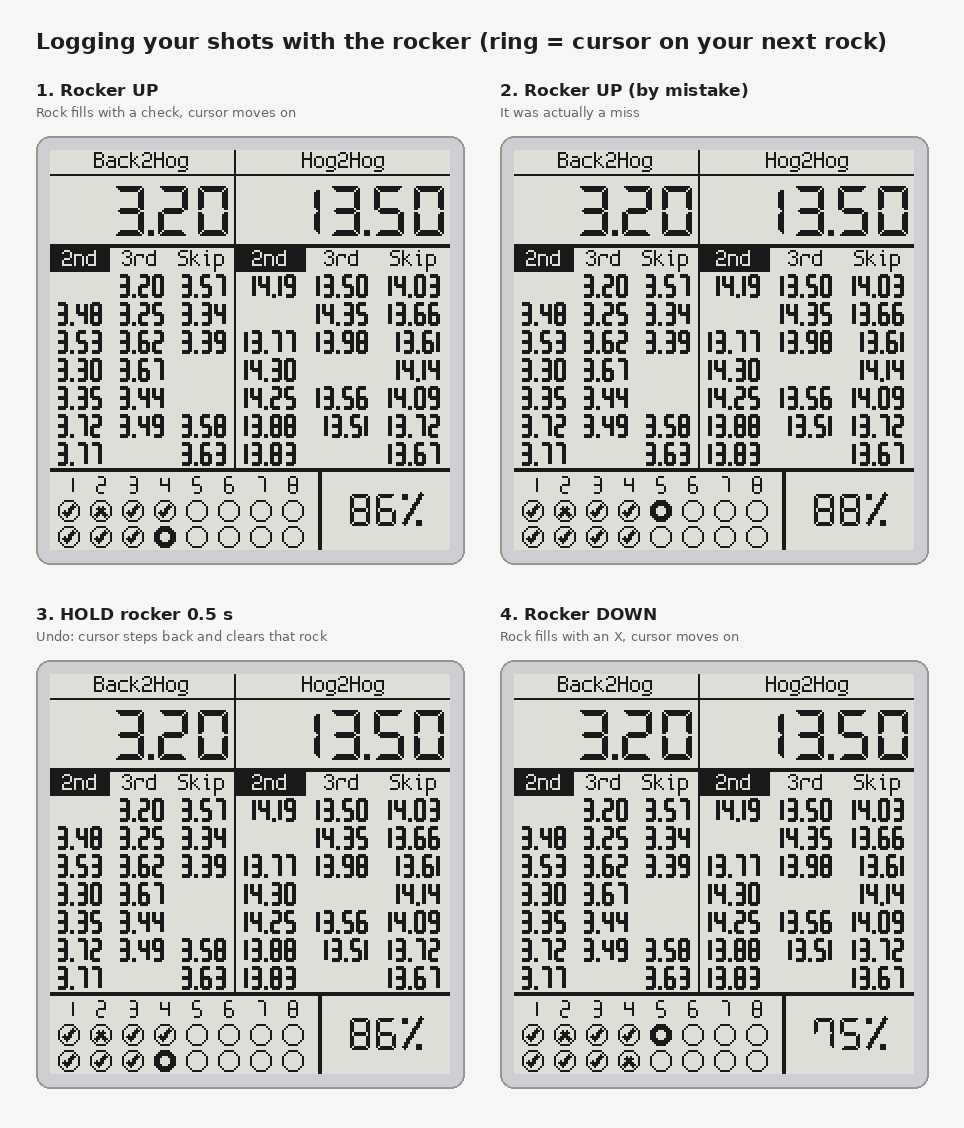
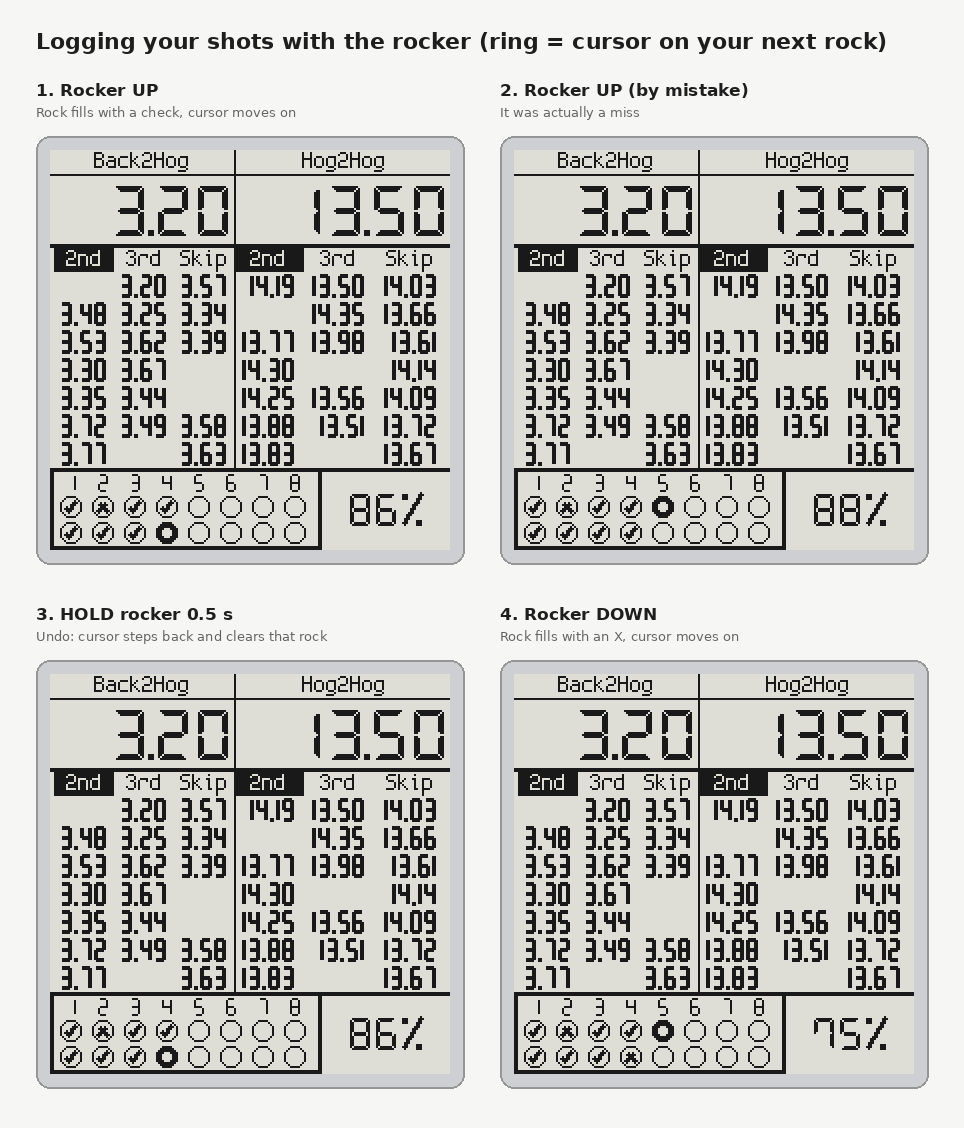
League: rocker focus on your rocks or the players
Hold rocker up 0.5 s to focus the players (a bold border round the
times): up/down then move the player cursor, for a rock nobody timed.
Hold rocker down 0.5 s to focus your rocks again (the border moves to
them): up/down log made/missed. Short up/down presses act on release so
a hold can be told from a press. Every switch-on starts on your rocks.
Compared pixel for pixel with the mockups (43 screens).

Claude-Session: https://claude.ai/code/session_01YA9zoncxe9XeMCwR12hQbC

diff --git a/firmware/src/app.cpp b/firmware/src/app.cpp
@@ -24,6 +24,7 @@ constexpr int64_t kUndoHoldUs = kSec / 2;   // 0.5 s
 constexpr int64_t kPowerHoldUs = 3 * kSec;
 constexpr int64_t kDoublePressUs = 400000;     // two rocker presses within 0.4 s: a double press
 constexpr uint8_t kRocksPerPlayer = 2;         // each player throws two rocks an end
+constexpr int64_t kFocusHoldUs = kSec / 2;     // league: hold rocker up/down this long to move the focus
 constexpr int64_t kAwakeAfterPressUs = 2 * kSec;    // stay awake this long after a rocker press
 constexpr int64_t kAwakeAfterWakeUs = 40000;        // time to confirm the button that woke us
 constexpr int64_t kAuditEveryUs = 10 * 60 * kSec;   // clock audit sample interval
@@ -113,6 +114,9 @@ uint8_t coachPage = 0;          // coach: 0 timer priority, 1 rock priority
 uint8_t myPosition = 0;         // 0 lead .. 3 skip (double press of the rocker centre; kept)
 uint8_t activeCol = 0;          // the column (0-2) with the cursor
 uint8_t rocksForActive = 0;     // stones timed for that player since the cursor got there
+// League: what rocker up/down work on, the focus (bold border): your rocks (made/missed) or the
+// players (previous/next). Hold up 0.5 s for the players, hold down 0.5 s for your rocks.
+Focus focus = Focus::Rocks;
 int64_t lastRockerPress = -kSec; // coach: when the rocker was last pressed (short presses only count)
 
 TimingEngine timing;
@@ -186,6 +190,7 @@ void newGame() {
     shots.setCapacity(mode == GameMode::Coach ? ShotLog::kCoachSlots : ShotLog::kLeagueSlots);
     activeCol = 0;
     rocksForActive = 0;
+    focus = Focus::Rocks;
     // "Double click rocker to change position", for the first 5 s (not in coach: no positions)
     tipWaiting = mode != GameMode::Coach;
     tipUntil = -1;
@@ -213,6 +218,7 @@ struct Model {
     bool full = false;      // next update is a ghost-clearing full refresh
     bool tip = false;       // the switch-on position tip
     Waiting waiting = Waiting::None;  // a stone being timed: the stopwatch shows where its time will go
+    Focus focus = Focus::Rocks;       // league: what the rocker works on
     char lastGame[40] = "";
     int shotPct = -1;       // help page: last game's shot percentage
     int battery = -1;       // help page: charge at switch-off
@@ -251,7 +257,7 @@ void displayTask(void*) {
             if (m.page == 0) drawCoachTimer(next, m.stones, m.stoneCount, m.shots, m.waiting);
             else drawCoachRocks(next, m.stones, m.stoneCount, m.shots, m.waiting);
         } else {
-            drawLeague(next, m.stones, m.stoneCount, m.shots, m.me, m.activeCol, m.warning, m.tip, m.waiting);
+            drawLeague(next, m.stones, m.stoneCount, m.shots, m.me, m.activeCol, m.warning, m.tip, m.waiting, m.focus);
         }
         const int64_t t0 = esp_timer_get_time();
         if (m.full) {
@@ -283,6 +289,7 @@ void syncModel(bool full = false) {
         m.help = false;
         m.full = m.full || sFull;
         m.tip = tipWaiting || tipUntil >= 0;
+        m.focus = focus;
         m.waiting = timing.state() == TimingState::Started     ? Waiting::BackToHog
                     : timing.state() == TimingState::WaitingHH ? Waiting::HogToHog
                                                                : Waiting::None;
@@ -560,6 +567,31 @@ void onRockerPress(ButtonState& s, int64_t t) {
     lastRockerPress = t;
 }
 
+// The player cursor one column left (-1) or right (+1), round and round.
+void movePlayer(int dir) {
+    activeCol = (activeCol + (dir < 0 ? kGridColumns - 1 : 1)) % kGridColumns;
+    rocksForActive = 0;
+    sound.play(kClick);
+    Serial.printf("timing: %s next\n", kPositionNames[teammate(myPosition, activeCol)]);
+    syncModel();
+}
+
+// League: rocker up/down held 0.5 s moves the focus (up: players, down: your rocks).
+void setFocus(Focus f) {
+    focus = f;
+    sound.play(kClick);
+    Serial.printf("focus: %s\n", f == Focus::Players ? "players" : "rocks");
+    syncModel();
+}
+
+// League: a short press of rocker up/down, acted on when it's let go (a long press moves the
+// focus instead): made/missed, or previous/next player.
+void onRelease(uint8_t b) {
+    if (mode != GameMode::League || (b != board::kUp && b != board::kDown) || buttons[b].holdFired) return;
+    if (focus == Focus::Rocks) onShot(b == board::kUp);
+    else movePlayer(b == board::kUp ? -1 : 1);
+}
+
 void onPress(uint8_t b, int64_t t) {
     ButtonState& s = buttons[b];
     s.down = true;
@@ -572,14 +604,12 @@ void onPress(uint8_t b, int64_t t) {
         s.holdFired = true;
         activity(t);
         if (b == board::kPress) { onRockerPress(s, t); return; }
-        activeCol = (activeCol + (b == board::kUp ? kGridColumns - 1 : 1)) % kGridColumns;
-        rocksForActive = 0;
-        sound.play(kClick);
-        Serial.printf("competition: timing %s\n", kPositionNames[teammate(myPosition, activeCol)]);
-        syncModel();
+        movePlayer(b == board::kUp ? -1 : 1);
         return;
     }
     activity(t);
+    // League: rocker up/down act when let go, or move the focus when held (pollButtons).
+    if (mode == GameMode::League && (b == board::kUp || b == board::kDown)) return;
     switch (b) {
     case board::kTop:
     case board::kSide: onTimingPress(t); break;
@@ -611,7 +641,10 @@ void pollButtons(int64_t now) {
             if (s.down && !raw && stable) s.down = false;
         } else {
             if (stable && raw && !s.down) onPress(b, s.rawSince);
-            if (stable && !raw && s.down) s.down = false;
+            if (stable && !raw && s.down) {
+                onRelease(b);
+                s.down = false;
+            }
         }
 
         // holds
@@ -625,6 +658,12 @@ void pollButtons(int64_t now) {
                 if (!onUndo()) s.holdFired = true;
             }
             if (b == board::kSide && now - s.downSince >= kPowerHoldUs) { s.holdFired = true; showHelpAndPowerOff(); }
+            if (mode == GameMode::League && (b == board::kUp || b == board::kDown) &&
+                now - s.downSince >= kFocusHoldUs) {
+                s.holdFired = true;  // not a short press when it's let go
+                activity(now);
+                setFocus(b == board::kUp ? Focus::Players : Focus::Rocks);
+            }
         }
     }
 }

diff --git a/tools/mockups/screen.py b/tools/mockups/screen.py
@@ -301,15 +301,16 @@ def teammates(me):
     return [p for p in range(4) if p != me]
 
 
-def grid_columns(half, mid):
-    """Edges of the three columns in a half (0 = B2H, 1 = H2H)."""
-    x0, x1 = (0, mid) if half == 0 else (mid, W)
+def grid_columns(half, mid, left=0, right=W):
+    """Edges of the three columns in a half (0 = B2H, 1 = H2H), between left and right."""
+    x0, x1 = (left, mid) if half == 0 else (mid, right)
     return [x0 + (x1 - x0) * k // 3 for k in range(4)]
 
 
-def times_grid(d, f, stones, bottom, mid, me, active, rows_max=GRID_ROWS):
-    """stones: (b2h, h2h, position) newest first; active: the column (0-2) with the cursor."""
-    cols = [grid_columns(0, mid), grid_columns(1, mid)]
+def times_grid(d, f, stones, bottom, mid, me, active, rows_max=GRID_ROWS, inset=0):
+    """stones: (b2h, h2h, position) newest first; active: the column (0-2) with the cursor.
+    inset: columns kept this far from the screen's sides (room for a focus border)."""
+    cols = [grid_columns(0, mid, inset, W - inset), grid_columns(1, mid, inset, W - inset)]
     players = teammates(me)
     for half in range(2):
         for k in range(3):
@@ -360,7 +361,7 @@ def newest_row(d, f, stones, waiting, mid, font, y0, y1, margin, r, cy):
 
 
 def times_wide(d, f, stones, bottom, label_right=W, grid=False, mid=WIDE_MID, me=0, active=0,
-               rows_max=GRID_ROWS, waiting=None):
+               rows_max=GRID_ROWS, waiting=None, inset=0):
     """Back2Hog | Hog2Hog across the full width: header, newest large, older below
     (one to a row, or with grid=True three to a row).
     label_right: where the Hog2Hog label's box ends (left of the page marks in coach mode)."""
@@ -371,7 +372,7 @@ def times_wide(d, f, stones, bottom, label_right=W, grid=False, mid=WIDE_MID, me
     d.line([(0, 47), (W - 1, 47)], fill=0, width=2)
     d.line([(mid, 0), (mid, bottom - 1)], fill=0)
     if grid:
-        return times_grid(d, f, stones, bottom, mid, me, active, rows_max)
+        return times_grid(d, f, stones, bottom, mid, me, active, rows_max, inset)
     older = stones if waiting == "b2h" else stones[1:]  # a new stone under way: the last one is older now
     for i, stone in enumerate(older):
         ry = 50 + i * 14
@@ -416,12 +417,14 @@ def competition_screen(stones, me=0, active=0, low_battery=False, tip=False, wai
 
 # League: the competition layout with 7 rows a player, and below it your own rocks like a
 # scoreboard (ends across, rock 1 over rock 2) with your percentage large on the right.
+# The rocker works on one half at a time, the focus, shown by a bold border: your rocks (up/down =
+# made/missed) or the players (up/down = previous/next player). Hold up or down to move it.
 LEAGUE_ROWS_BOTTOM = 159     # 2 px line under the times
 LEAGUE_PCT_X = 134           # 2 px divider left of the percentage
 LEAGUE_SLOTS = 16
 
 
-def league_screen(stones, shots, me=0, active=0, low_battery=False, tip=False, waiting=None):
+def league_screen(stones, shots, me=0, active=0, low_battery=False, tip=False, waiting=None, focus="rocks"):
     """stones: (b2h, h2h, position) newest first; shots: True made / False missed, in order;
     me: your position; active: the teammate column (0-2) with the cursor."""
     f = fonts()
@@ -429,17 +432,23 @@ def league_screen(stones, shots, me=0, active=0, low_battery=False, tip=False, w
     d = ImageDraw.Draw(img)
     d.fontmode = "1"
     top = LEAGUE_ROWS_BOTTOM
-    times_wide(d, f, stones, top, grid=True, mid=COMP_MID, me=me, active=active, rows_max=7, waiting=waiting)
+    times_wide(d, f, stones, top, grid=True, mid=COMP_MID, me=me, active=active, rows_max=7, waiting=waiting,
+               inset=2)
     d.line([(0, top), (W - 1, top)], fill=0, width=2)
     split = LEAGUE_PCT_X
     d.line([(split, top), (split, H - 1)], fill=0, width=2)
     cursor = len(shots) if len(shots) < LEAGUE_SLOTS else -1
     for end in range(8):
-        cx = 9 + end * 16
-        f["tiny"].draw(d, str(end + 1), cx - 2, top + 4)
+        cx = 10 + end * 16
+        f["tiny"].draw(d, str(end + 1), cx - 2, top + 3)
         for r in range(2):
             i = end * 2 + r
-            small_rock(d, cx, top + 21 + r * 13, shots[i] if i < len(shots) else None, i == cursor)
+            small_rock(d, cx, top + 19 + r * 13, shots[i] if i < len(shots) else None, i == cursor)
+    # the focus: a bold border around the half the rocker works on
+    if focus == "players":
+        d.rectangle([0, 47, W - 1, top + 1], outline=0, width=2)
+    else:
+        d.rectangle([0, top, split + 1, H - 1], outline=0, width=2)
     x0, y0 = split + 2, top + 2
     if low_battery:  # a black bar over the percentage
         d.rectangle([x0, y0, W - 1, y0 + 12], fill=0)

diff --git a/firmware/lib/stoprock_ui/src/screens.cpp b/firmware/lib/stoprock_ui/src/screens.cpp
@@ -247,15 +247,16 @@ constexpr int GRID_LABEL_Y0 = 49, GRID_LABEL_Y1 = 60;
 constexpr int GRID_TOP = 61, GRID_PITCH = 14;
 constexpr int GRID_TYPICAL[2] = {23, 26};  // width of "3.47" and "13.92": each column centres that width
 
-void gridColumns(int half, int mid, int* edges) {
-    const int x0 = half == 0 ? 0 : mid, x1 = half == 0 ? mid : W;
+// Edges of the three columns in a half (0 = B2H, 1 = H2H), inset from the screen's sides.
+void gridColumns(int half, int mid, int* edges, int inset = 0) {
+    const int x0 = half == 0 ? inset : mid, x1 = half == 0 ? mid : W - inset;
     for (int k = 0; k < 4; ++k) edges[k] = x0 + (x1 - x0) * k / 3;
 }
 
-void timesGrid(Canvas& c, const Stone* stones, int count, int mid, int me, int active, int rowsMax) {
+void timesGrid(Canvas& c, const Stone* stones, int count, int mid, int me, int active, int rowsMax, int inset) {
     int cols[2][4];
-    gridColumns(0, mid, cols[0]);
-    gridColumns(1, mid, cols[1]);
+    gridColumns(0, mid, cols[0], inset);
+    gridColumns(1, mid, cols[1], inset);
     for (int half = 0; half < 2; ++half) {
         for (int k = 0; k < 3; ++k) {
             const int x0 = cols[half][k], x1 = cols[half][k + 1];
@@ -302,7 +303,7 @@ void newestRow(Canvas& c, const Stone* stones, int count, Waiting waiting, int m
 // (one to a row, or with grid three to a row).
 void timesWide(Canvas& c, const Stone* stones, int count, int bottom, int labelRight, bool grid = false,
                int mid = WIDE_MID, int me = 0, int active = 0, int rowsMax = kGridRows,
-               Waiting waiting = Waiting::None) {
+               Waiting waiting = Waiting::None, int inset = 0) {
     const Font& label = kFontSpleen6x12;
     textInBox(c, label, "Back2Hog", 0, mid, 0, LABEL_H, kCentre, 4);
     textInBox(c, label, "Hog2Hog", mid, labelRight, 0, LABEL_H, kCentre, 4);
@@ -310,7 +311,7 @@ void timesWide(Canvas& c, const Stone* stones, int count, int bottom, int labelR
     newestRow(c, stones, count, waiting, mid, kFontDseg25, 13, 47, 3, kStopwatch, 30);
     hline(c, 0, W - 1, 47, 2);
     vline(c, mid, 0, bottom - 1);
-    if (grid) { timesGrid(c, stones, count, mid, me, active, rowsMax); return; }
+    if (grid) { timesGrid(c, stones, count, mid, me, active, rowsMax, inset); return; }
     char buf[12];
     const int first = waiting == Waiting::BackToHog ? 0 : 1;  // a new stone under way: the last one is older now
     for (int i = first; i < count; ++i) {
@@ -384,26 +385,34 @@ void drawCompetition(Canvas& c, const Stone* stones, uint8_t count, uint8_t me, 
 }
 
 void drawLeague(Canvas& c, const Stone* stones, uint8_t count, const ShotLog& shots, uint8_t me, uint8_t activeCol,
-                bool lowBattery, bool tip, Waiting waiting) {
+                bool lowBattery, bool tip, Waiting waiting, Focus focus) {
     c.clear();
     const int top = 159;    // 2 px line under the times
     const int split = 134;  // 2 px divider left of the percentage
-    timesWide(c, stones, count, top, W, true, COMP_MID, me, activeCol, kLeagueRows, waiting);
+    timesWide(c, stones, count, top, W, true, COMP_MID, me, activeCol, kLeagueRows, waiting, 2);
     hline(c, 0, W - 1, top, 2);
     vline(c, split, top, H - 1, 2);
     // your rocks like a scoreboard: ends across, rock 1 over rock 2
     const int cursor = shots.cursor();
     for (int end = 0; end < 8; ++end) {
-        const int cx = 9 + end * 16;
+        const int cx = 10 + end * 16;
         char n[3];
         snprintf(n, sizeof n, "%d", end + 1);
-        kEndFont.draw(c, n, cx - 2, top + 4);
+        kEndFont.draw(c, n, cx - 2, top + 3);
         for (int r = 0; r < 2; ++r) {
-            const int i = end * 2 + r, cy = top + 21 + r * 13;
+            const int i = end * 2 + r, cy = top + 19 + r * 13;
             c.sprite(kRockSmall, cx, cy);
             if (i < shots.count()) c.sprite(shots.made(i) ? kCheckSmall : kCrossSmall, cx, cy);
             if (i == cursor) c.sprite(kCursorSmall, cx, cy);
         }
+    }
+    // the focus: a bold border around the half the rocker works on
+    if (focus == Focus::Players) {
+        rectOutline(c, 0, 47, W - 1, top + 1);
+        rectOutline(c, 1, 48, W - 2, top);
+    } else {
+        rectOutline(c, 0, top, split + 1, H - 1);
+        rectOutline(c, 1, top + 1, split, H - 2);
     }
     const int x0 = split + 2;
     int y0 = top + 2;

diff --git a/firmware/lib/stoprock_ui/src/screens.h b/firmware/lib/stoprock_ui/src/screens.h
@@ -40,8 +40,11 @@ inline uint8_t teammate(uint8_t me, uint8_t k) { return k < me ? k : k + 1; }
 // your own 16 rocks like a scoreboard (ends across, rock 1 over rock 2) and your percentage.
 // lowBattery puts a "Batt low" bar over the percentage.
 constexpr uint8_t kLeagueRows = 7;
+// focus: the half the rocker works on, shown by a bold border: your rocks (made/missed) or the
+// players (previous/next player).
+enum class Focus : uint8_t { Rocks, Players };
 void drawLeague(Canvas& c, const Stone* stones, uint8_t count, const ShotLog& shots, uint8_t me, uint8_t activeCol,
-                bool lowBattery, bool tip = false, Waiting waiting = Waiting::None);
+                bool lowBattery, bool tip = false, Waiting waiting = Waiting::None, Focus focus = Focus::Rocks);
 
 // Put a stone at the front of a newest-first list. When the list is full, the stone dropped is
 // the oldest of a player with more than a screenful (kGridRows), so a player who has thrown

diff --git a/tools/compare_render.py b/tools/compare_render.py
@@ -29,6 +29,7 @@ def main():
     refs["league-tip"] = screen.league_screen([], [], 2, 0, tip=True)
     half = [(st[0][0], None, st[0][2])] + list(st[1:])  # the newest stone awaiting its H2H
     refs["competition-wait-b2h"] = screen.competition_screen(st, 0, 1, waiting="b2h")
+    refs["league-players"] = screen.league_screen(st, shots, 0, 1, focus="players")
     refs["league-wait-h2h"] = screen.league_screen(half, shots, 0, 1, waiting="h2h")
     cs = render.COACH_STONES
     refs["coach1-wait-b2h"] = screen.coach_timer_screen(cs, render.COACH_SHOTS, waiting="b2h")

diff --git a/firmware/src/render_main.cpp b/firmware/src/render_main.cpp
@@ -86,6 +86,9 @@ int main(int argc, char** argv) {
     drawCompetition(c, comp, 25, 0, 1, false, false, Waiting::BackToHog);
     snprintf(path, sizeof path, "%s/competition-wait-b2h.pbm", dir);
     writePbm(c, path);
+    drawLeague(c, comp, 25, shots, 0, 1, false, false, Waiting::None, Focus::Players);
+    snprintf(path, sizeof path, "%s/league-players.pbm", dir);
+    writePbm(c, path);
     drawLeague(c, half, 25, shots, 0, 1, false, false, Waiting::HogToHog);
     snprintf(path, sizeof path, "%s/league-wait-h2h.pbm", dir);
     writePbm(c, path);

diff --git a/docs/SPEC.md b/docs/SPEC.md
@@ -46,6 +46,8 @@ Graphics library: **M5GFX / M5Unified** (has a driver for this screen, `Panel_GD
 
 In competition mode, rocker up and down move the player cursor to the previous or next teammate (wrapping round). There is no undo.
 
+In league mode the rocker works on one half of the screen at a time, the **focus**, shown by a bold border: your **rocks** (up/down = made/missed, the default at switch-on) or the **players** (up/down = previous/next player, for a rock nobody timed). **Hold rocker up 0.5 s** to focus the players, **hold rocker down 0.5 s** to focus your rocks. So that a hold can be told from a press, league acts on a short up/down press when it's let go.
+
 Timing clicks are timestamped in the interrupt handler, so screen activity never affects timing accuracy.
 
 ### Start-up modes
@@ -55,7 +57,7 @@ What the rocker is doing while the side button switches the device on picks the 
 | Switch on with | Mode | Screen | Rocker |
 |---|---|---|---|
 | Side button only | **Competition** | Times only, full width, the history in a column per teammate, with a cursor on the player about to throw; a black badge strip at the bottom reads `COMPETITION` / `STOPWATCH FEATURES ONLY`, for an umpire | Moves the cursor; double press: your position |
-| Side button + rocker **down** | **League** | Section 8: your teammates' times by player, your own 16 rocks and % | Made / missed / undo; double press: your position |
+| Side button + rocker **down** | **League** | Section 8: your teammates' times by player, your own 16 rocks and % | Made / missed / undo, or previous / next player (hold up / down to switch); double press: your position |
 | Side button + rocker **up** | **Coach** | Two pages (section 8a): the whole team's 64 rocks | Made / missed / undo; double press switches page |
 
 - Competition is the default because it is what a tournament allows: World Curling's rules (R11(c)) limit stopwatches to giving time data only, and forbid electronic communication. Competition mode shows and records times only, and never uses the radio (the radio isn't used in any mode yet).
@@ -124,10 +126,10 @@ A stone gives at most one **B2H** (back line, or tee line, to hog line) followed
 | Column labels | y 0–12 | `Back2Hog`, `Hog2Hog` in Spleen 6×12, split at x 92 |
 | Newest result | y 13–47 | DSEG7 Classic Bold 25 px, square decimal point. Blank cell if that split wasn't timed. |
 | Teammates' times | y 49–158 | A column per teammate in each half, headed with their position (a lead sees `2nd`, `3rd`, `Skip`); the player about to throw has the highlighted (inverted) header. Each column lists that player's stones newest first, 7 rows of 14 px, in drawn 7-segment digits (12 px high, 6 px wide, a narrow "1") |
-| Your rocks | x 0–134, y 161–199 | Like a scoreboard: ends 1–8 across (drawn digits, 9 px), rock 1 over rock 2 (radius 5); ✓ made, ✗ missed, empty circle not thrown; bold ring = cursor on your next rock |
+| Your rocks | x 0–135, y 159–199 | Like a scoreboard: ends 1–8 across (drawn digits, 9 px), rock 1 over rock 2 (radius 5); ✓ made, ✗ missed, empty circle not thrown; bold ring = cursor on your next rock |
 | Percentage | x 136–199, y 161–199 | Your shots made, DSEG7 16 px digits, % sign drawn to match. A low battery puts a white-on-black `Batt low` bar above it until charged. |
 
-**The player cursor** works as in competition (section 8a): each timed stone is filed under the highlighted player, and after their second rock the cursor moves to the next player. League also knows when you throw: **logging your own shot puts the cursor on the player after you** (as lead, the 2nd; as skip, the lead of the next end), so the cursor is back in step every end even if a stone was missed or an extra click got in. Your position is changed with a double press of the rocker centre.
+**The player cursor** works as in competition (section 8a): each timed stone is filed under the highlighted player, and after their second rock the cursor moves to the next player. League also knows when you throw: **logging your own shot puts the cursor on the player after you** (as lead, the 2nd; as skip, the lead of the next end), so the cursor is back in step every end even if a stone was missed or an extra click got in. For a rock nobody timed (a teammate called normal, say), move the cursor yourself: hold rocker up to focus the players (a bold border round the times), press up/down for the previous/next player, then hold rocker down to go back to your rocks (the border moves to them). Your position is changed with a double press of the rocker centre.
 
 There are no rotating tips: the controls are simple enough, and the help page shows them. One tip remains: for 5 s after switching on (counted from when the screen is up), competition and league show a box over the empty times area: "Double click rocker / to change position". If a stone is being timed when the 5 s are up, the box goes with that stone's next screen update.
 

diff --git a/simulator/README.md b/simulator/README.md
@@ -64,7 +64,7 @@ changes.
 | Mode | Switch on with | What to try |
 |---|---|---|
 | Competition | <kbd>S</kbd> | Times only, full width, the badge strip at the bottom; a column per teammate; the highlighted player gets the next times and moves on after two rocks; <kbd>↑</kbd>/<kbd>↓</kbd> move it, <kbd>Enter</kbd> twice quickly changes your own position |
-| League | <kbd>↓</kbd> + <kbd>S</kbd> | Teammates' times by player, your 16 rocks along the bottom; logging your shot moves the player cursor to the player after you; <kbd>Enter</kbd> twice quickly changes your position |
+| League | <kbd>↓</kbd> + <kbd>S</kbd> | Teammates' times by player, your 16 rocks along the bottom; logging your shot moves the player cursor to the player after you; hold <kbd>↑</kbd> to move the player cursor with <kbd>↑</kbd>/<kbd>↓</kbd>, hold <kbd>↓</kbd> to log shots again; <kbd>Enter</kbd> twice quickly changes your position |
 | Coach | <kbd>↑</kbd> + <kbd>S</kbd> | 64 rocks for the whole team; <kbd>Enter</kbd> twice quickly switches between the timer page and the rocks page |
 
 The **Battery** slider sets the battery level the firmware reads (`run.py` sends it to the emulated chip's
